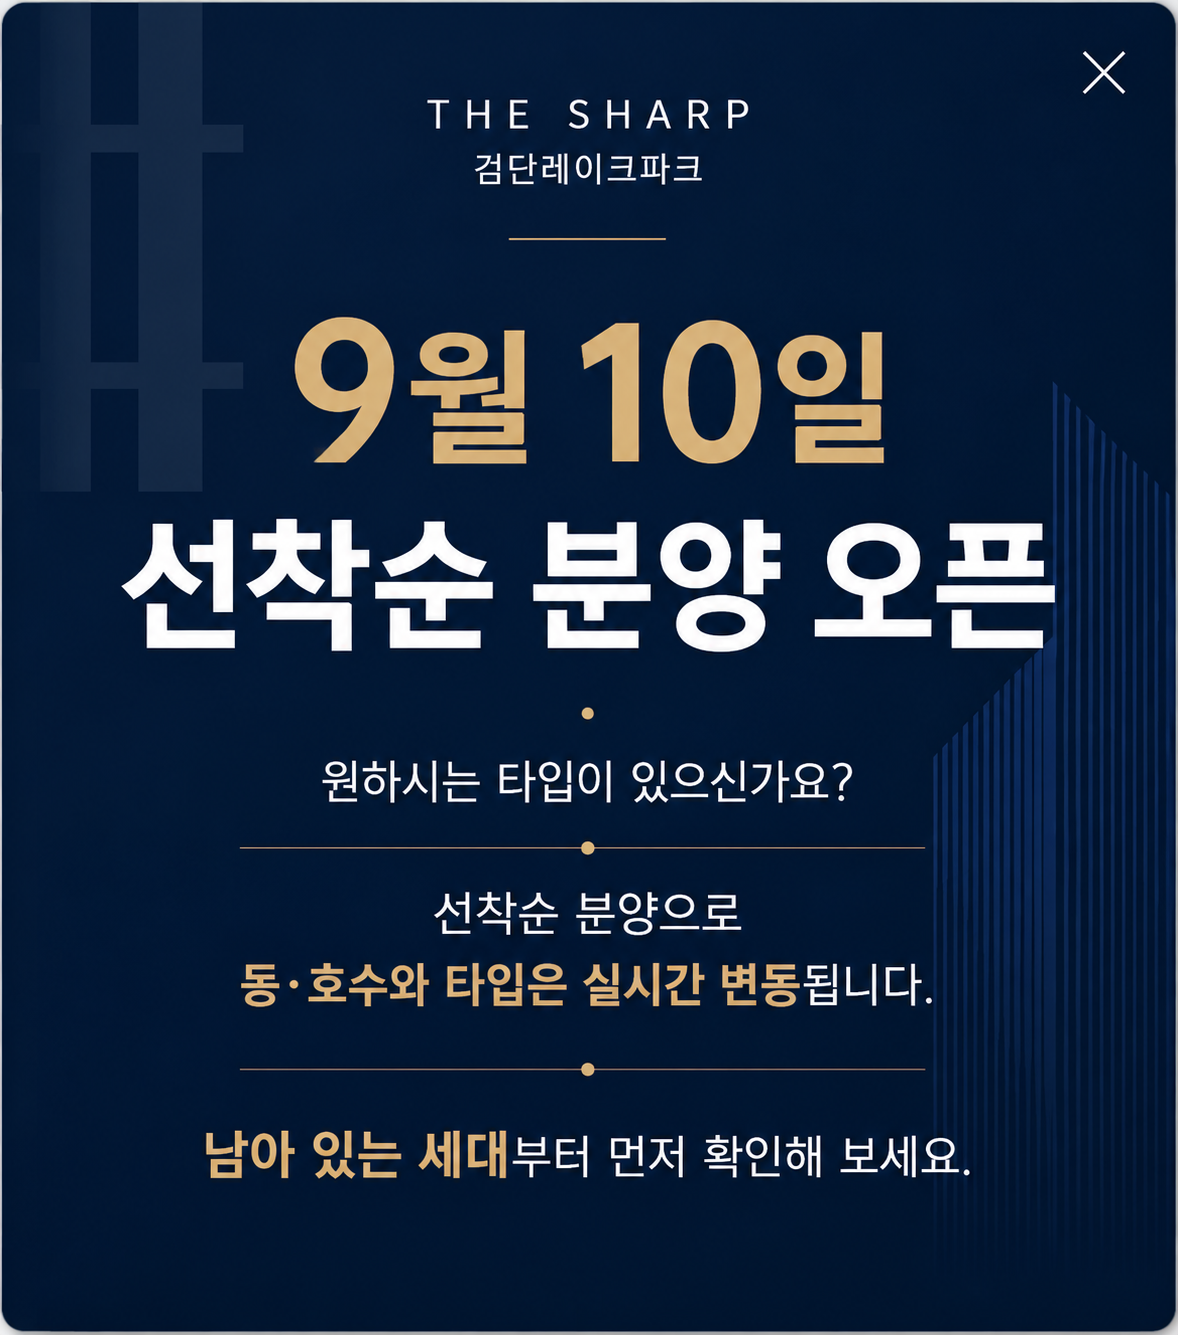
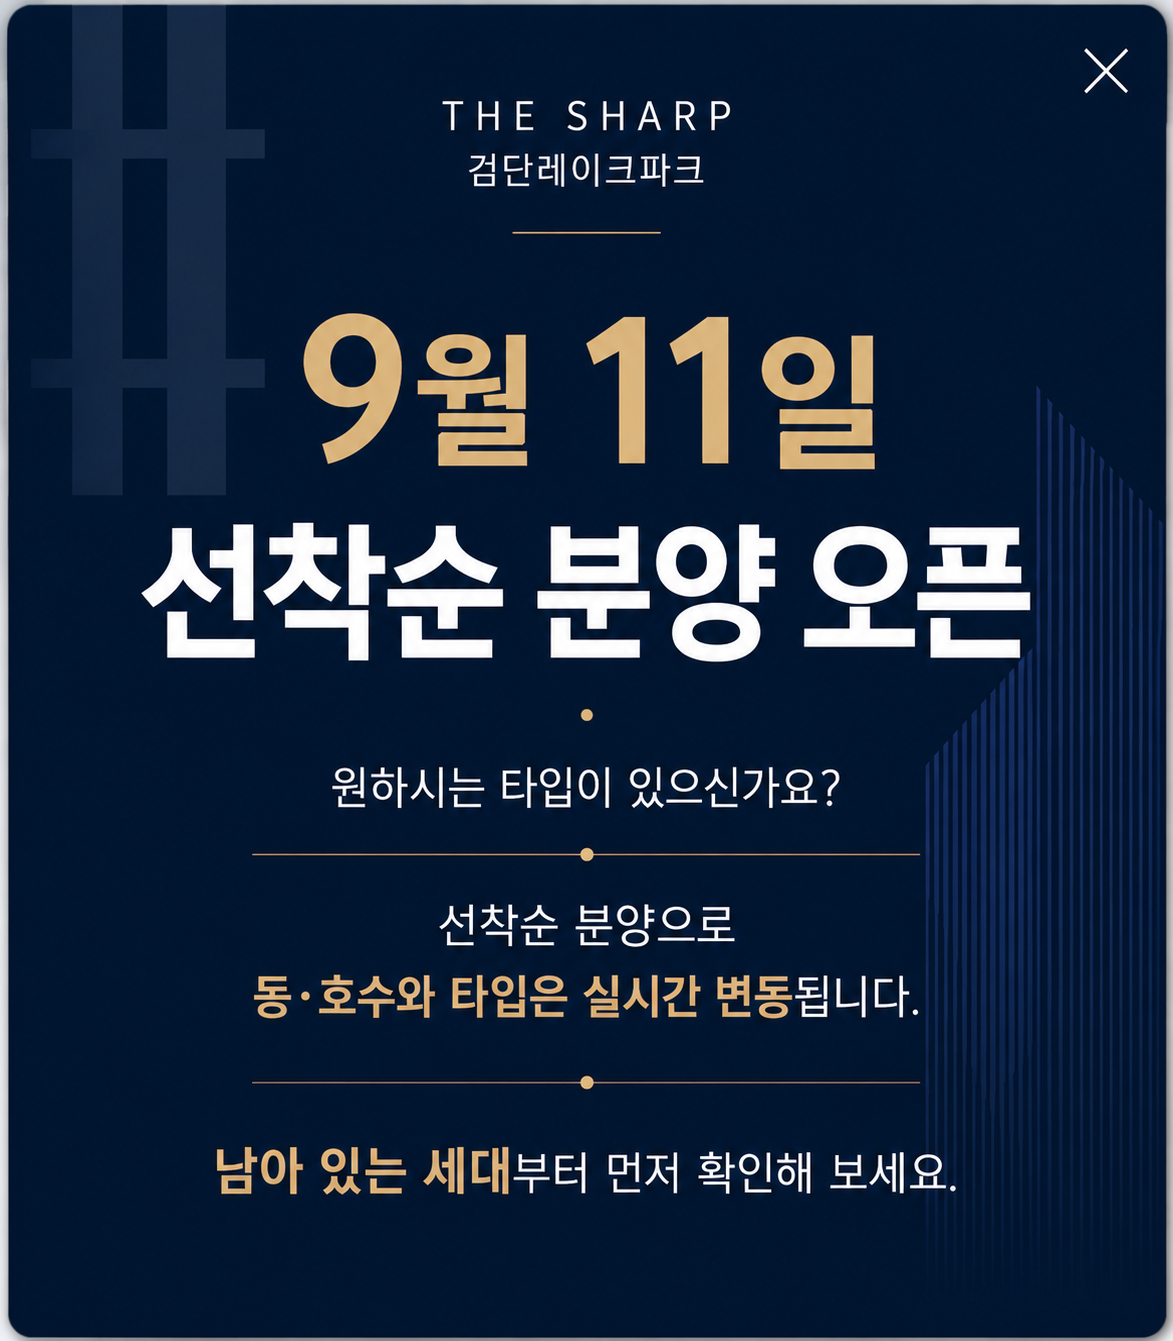
fix: 검단레이크파크2 선착순 분양오픈 팝업 이미지 교체
- popup1.webp 최신 이미지로 교체, 실제 크기(1173x1341)에 맞춰 width/height 갱신

diff --git a/adaptive-landing/data/sites/the-sharp-geomdan-lakepark-2.js b/adaptive-landing/data/sites/the-sharp-geomdan-lakepark-2.js
@@ -69,7 +69,7 @@ const config = {
     popup: {
       enabled: true,
       order: 'imageFirst',
-      image: { src: '/apt/the-sharp-geomdan-lakepark-2/popup1.webp', alt: '더샵 검단레이크파크 선착순 분양오픈 안내', width: 1178, height: 1335 },
+      image: { src: '/apt/the-sharp-geomdan-lakepark-2/popup1.webp', alt: '더샵 검단레이크파크 선착순 분양오픈 안내', width: 1173, height: 1341 },
       // 이미지 안에 이미 닫기(X) 표시가 그려져 있어 별도 "팝업닫기" 바 없이 이미지 탭으로 바로 닫히게 함
       hideCloseBar: true,
       interest: {
